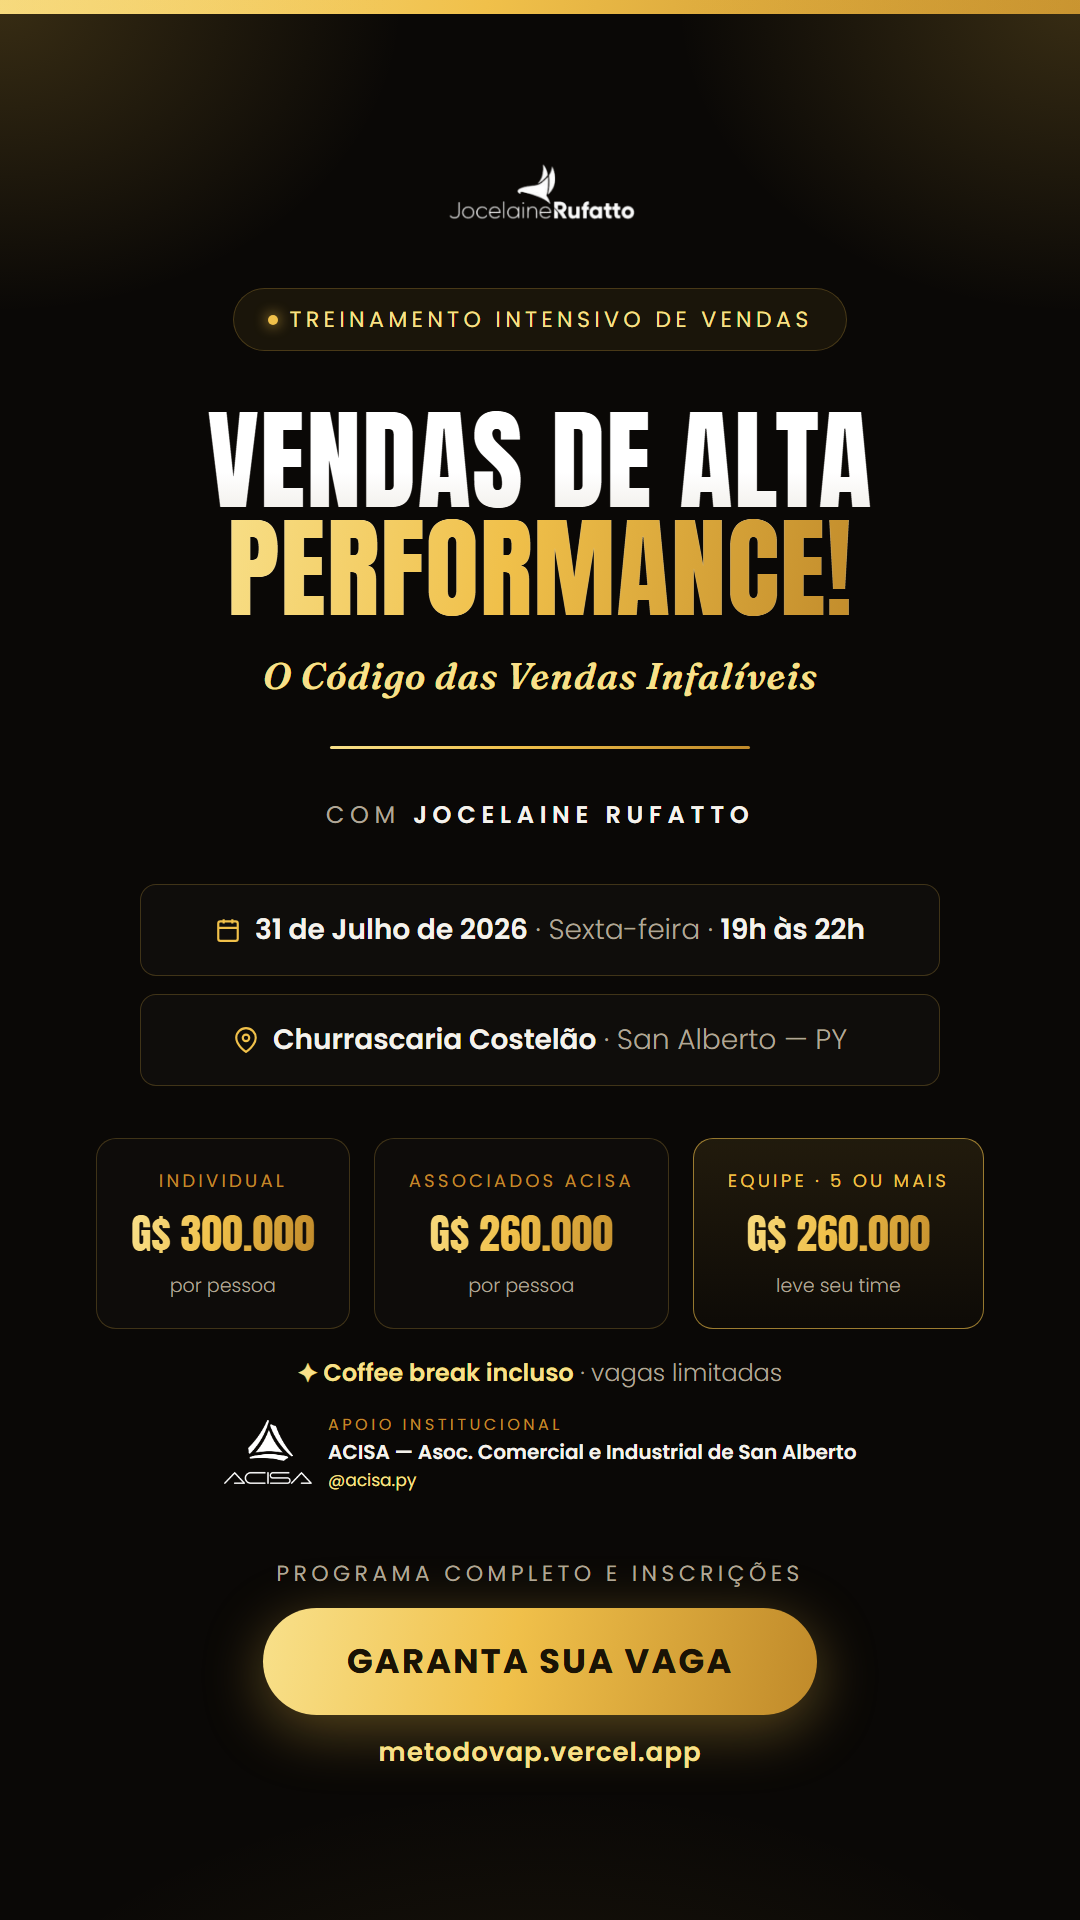
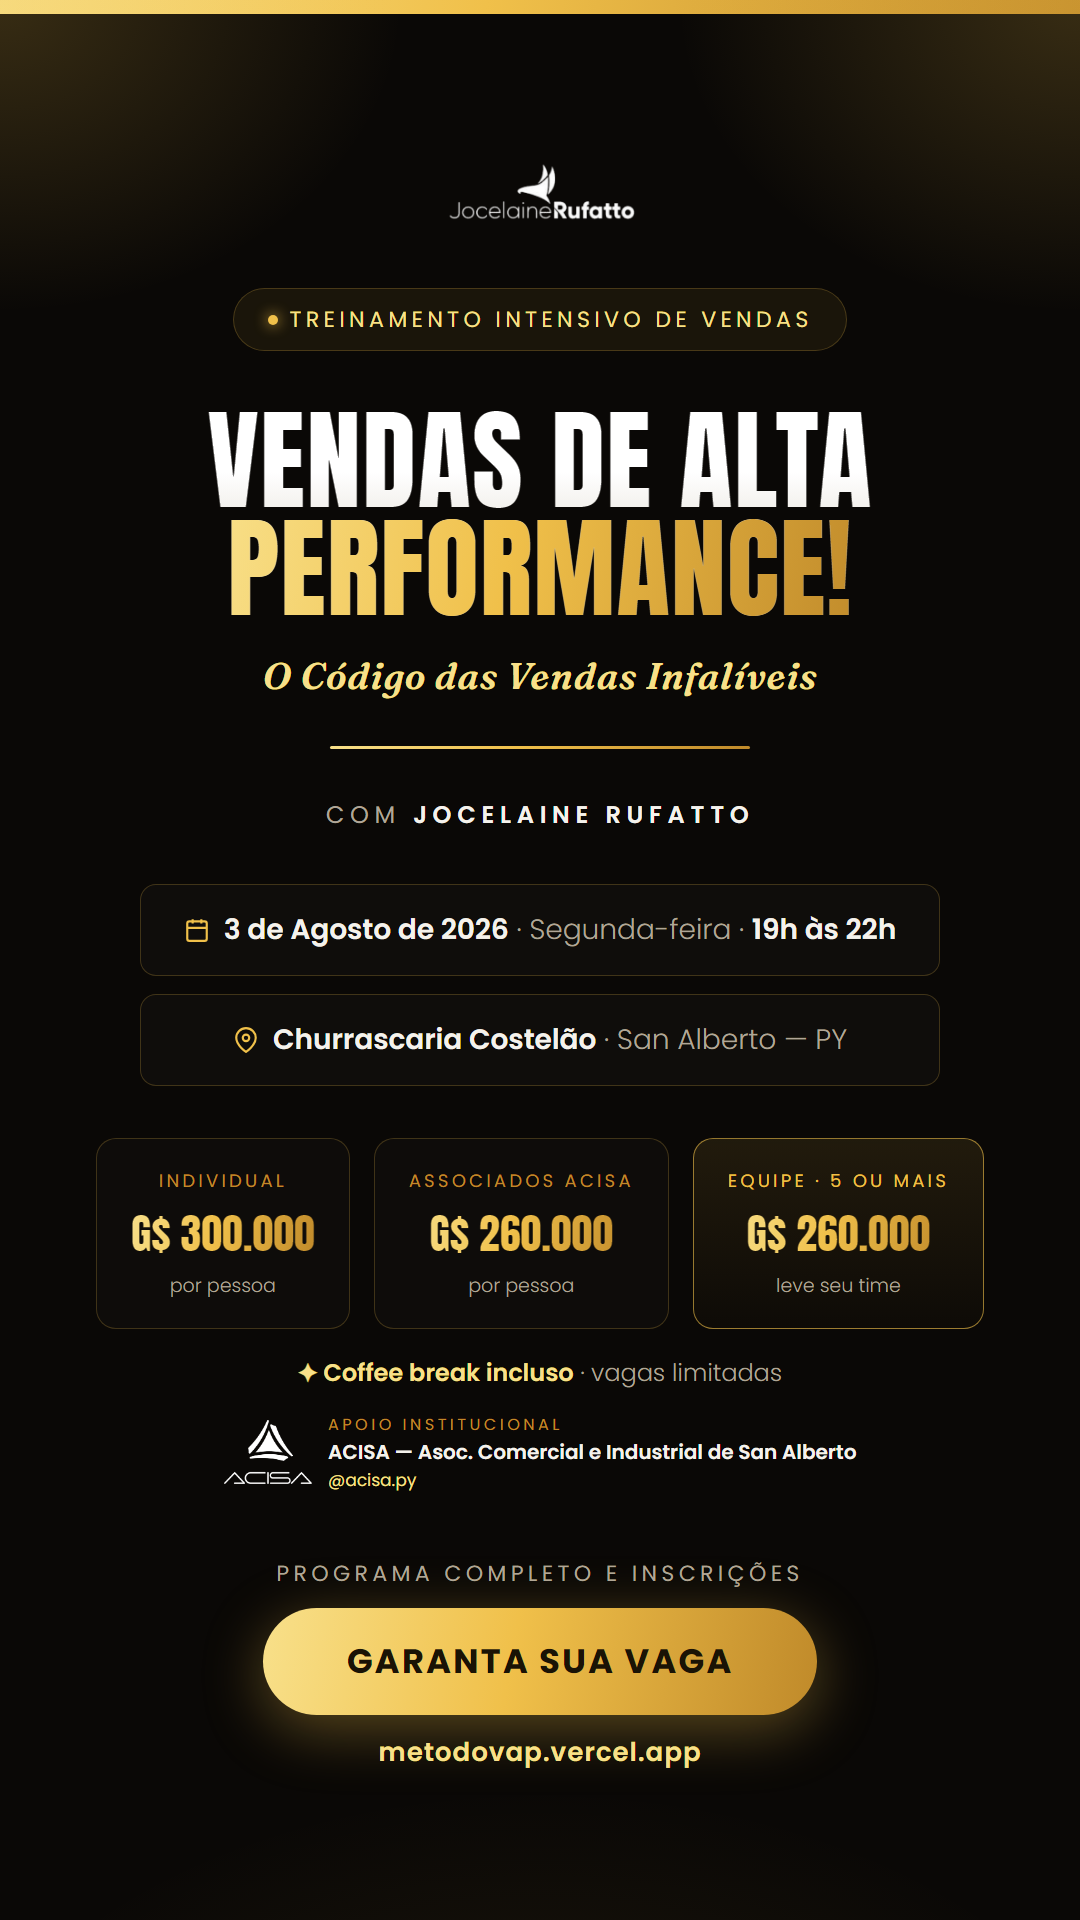
fix: data do treinamento muda para segunda 3 de agosto de 2026

Changed region(s): [[0.1833, 0.4688, 0.825, 0.5]]

diff --git a/index.html b/index.html
@@ -4,7 +4,7 @@
 <meta charset="UTF-8">
 <meta name="viewport" content="width=device-width, initial-scale=1.0">
 <title>Vendas de Alta Performance — O Código das Vendas Infalíveis | Jocelaine Rufatto</title>
-<meta name="description" content="Treinamento Intensivo Vendas de Alta Performance com Jocelaine Rufatto. 31 de Julho de 2026, Churrascaria Costelão, San Alberto — Paraguay. Mentalidade, DISC e vendas nas redes sociais.">
+<meta name="description" content="Treinamento Intensivo Vendas de Alta Performance com Jocelaine Rufatto. 3 de Agosto de 2026, Churrascaria Costelão, San Alberto — Paraguay. Mentalidade, DISC e vendas nas redes sociais.">
 <link rel="preconnect" href="https://fonts.googleapis.com">
 <link rel="preconnect" href="https://fonts.gstatic.com" crossorigin>
 <link href="https://fonts.googleapis.com/css2?family=Anton&family=Fraunces:ital,wght@0,600;0,900;1,600&family=Poppins:wght@300;400;500;600;700&display=swap" rel="stylesheet">
@@ -332,7 +332,7 @@
 </nav>
 
 <header class="hero" id="home">
-  <div class="badge"><span class="dot"></span> <span class="nb">31 de Julho de 2026</span><span class="sep"> · </span><span class="nb">San Alberto — Paraguay</span></div>
+  <div class="badge"><span class="dot"></span> <span class="nb">3 de Agosto de 2026</span><span class="sep"> · </span><span class="nb">San Alberto — Paraguay</span></div>
   <h1>Vendas de Alta <span class="gold">Performance!</span></h1>
   <p class="slogan">O Código das Vendas Infalíveis</p>
   <p class="sub">Uma noite para dominar <strong>mentalidade de vendas</strong>, o <strong>perfil comportamental DISC</strong> e as estratégias que transformam atendimento em <strong>faturamento</strong>.</p>
@@ -340,7 +340,7 @@
   <div class="meta-row">
     <div class="meta">
       <svg viewBox="0 0 24 24" fill="none" stroke-width="2"><rect x="3" y="4" width="18" height="18" rx="2"/><path d="M16 2v4M8 2v4M3 10h18"/></svg>
-      <span><span class="nb"><b>31 de Julho</b> de 2026</span></span>
+      <span><span class="nb"><b>3 de Agosto</b> de 2026</span></span>
     </div>
     <div class="meta">
       <svg viewBox="0 0 24 24" fill="none" stroke-width="2"><circle cx="12" cy="12" r="10"/><path d="M12 6v6l4 2"/></svg>
@@ -508,7 +508,7 @@
       <div class="detail rv">
         <svg viewBox="0 0 24 24" fill="none" stroke-width="1.6"><rect x="3" y="4" width="18" height="18" rx="2"/><path d="M16 2v4M8 2v4M3 10h18"/></svg>
         <div class="t">Data</div>
-        <div class="v">31 de Julho de 2026<br>Sexta-feira</div>
+        <div class="v">3 de Agosto de 2026<br>Segunda-feira</div>
       </div>
       <div class="detail rv">
         <svg viewBox="0 0 24 24" fill="none" stroke-width="1.6"><circle cx="12" cy="12" r="10"/><path d="M12 6v6l4 2"/></svg>
@@ -596,7 +596,7 @@
 
 <section class="final" style="padding-top:0">
   <div class="wrap rv">
-    <p class="kicker"><span class="nb">31 de Julho</span> · <span class="nb">Churrascaria Costelão</span> · <span class="nb">San Alberto — PY</span></p>
+    <p class="kicker"><span class="nb">3 de Agosto</span> · <span class="nb">Churrascaria Costelão</span> · <span class="nb">San Alberto — PY</span></p>
     <h2>As vagas são limitadas</h2>
     <p class="lead">Uma noite pode mudar a forma como você e seu time vendem para sempre. Reserve agora.</p>
     <a class="cta" href="https://form.jotform.com/261595450520051" target="_blank" rel="noopener">Garantir minha vaga</a>
@@ -609,8 +609,8 @@
 </footer>
 
 <script>
-  // countdown para 31/07/2026 19:00 (horário do Paraguai, UTC-4)
-  const target = new Date('2026-07-31T19:00:00-04:00').getTime();
+  // countdown para 03/08/2026 19:00 (horário do Paraguai, UTC-4)
+  const target = new Date('2026-08-03T19:00:00-04:00').getTime();
   const pad = n => String(n).padStart(2, '0');
   function tick(){
     let diff = Math.max(0, target - Date.now());

diff --git a/flyer-story.html b/flyer-story.html
@@ -95,7 +95,7 @@
   <div class="meta">
     <div class="row">
       <svg viewBox="0 0 24 24" fill="none" stroke-width="2"><rect x="3" y="4" width="18" height="18" rx="2"/><path d="M16 2v4M8 2v4M3 10h18"/></svg>
-      <span><b>31 de Julho de 2026</b> · Sexta-feira · <b>19h às 22h</b></span>
+      <span><b>3 de Agosto de 2026</b> · Segunda-feira · <b>19h às 22h</b></span>
     </div>
     <div class="row">
       <svg viewBox="0 0 24 24" fill="none" stroke-width="2"><path d="M21 10c0 7-9 13-9 13s-9-6-9-13a9 9 0 0 1 18 0z"/><circle cx="12" cy="10" r="3"/></svg>

diff --git a/flyer.html b/flyer.html
@@ -95,7 +95,7 @@
   <div class="meta">
     <div class="row">
       <svg viewBox="0 0 24 24" fill="none" stroke-width="2"><rect x="3" y="4" width="18" height="18" rx="2"/><path d="M16 2v4M8 2v4M3 10h18"/></svg>
-      <span><b>31 de Julho de 2026</b> · Sexta-feira · <b>19h às 22h</b></span>
+      <span><b>3 de Agosto de 2026</b> · Segunda-feira · <b>19h às 22h</b></span>
     </div>
     <div class="row">
       <svg viewBox="0 0 24 24" fill="none" stroke-width="2"><path d="M21 10c0 7-9 13-9 13s-9-6-9-13a9 9 0 0 1 18 0z"/><circle cx="12" cy="10" r="3"/></svg>

diff --git a/flyer-acisa-story.html b/flyer-acisa-story.html
@@ -95,7 +95,7 @@
       <div class="k">O treinamento</div>
       <div class="n">Vendas de Alta Performance!</div>
       <div class="sl">O Código das Vendas Infalíveis</div>
-      <div class="w">com <b>Jocelaine Rufatto</b><br><b>31 de Julho</b> · 19h às 22h · <b>Churrascaria Costelão</b></div>
+      <div class="w">com <b>Jocelaine Rufatto</b><br><b>3 de Agosto</b> · 19h às 22h · <b>Churrascaria Costelão</b></div>
     </div>
   </div>
 

diff --git a/flyer-acisa.html b/flyer-acisa.html
@@ -95,7 +95,7 @@
       <div class="k">O treinamento</div>
       <div class="n">Vendas de Alta Performance!</div>
       <div class="sl">O Código das Vendas Infalíveis</div>
-      <div class="w">com <b>Jocelaine Rufatto</b><br><b>31 de Julho</b> · 19h às 22h · <b>Churrascaria Costelão</b></div>
+      <div class="w">com <b>Jocelaine Rufatto</b><br><b>3 de Agosto</b> · 19h às 22h · <b>Churrascaria Costelão</b></div>
     </div>
   </div>
 
